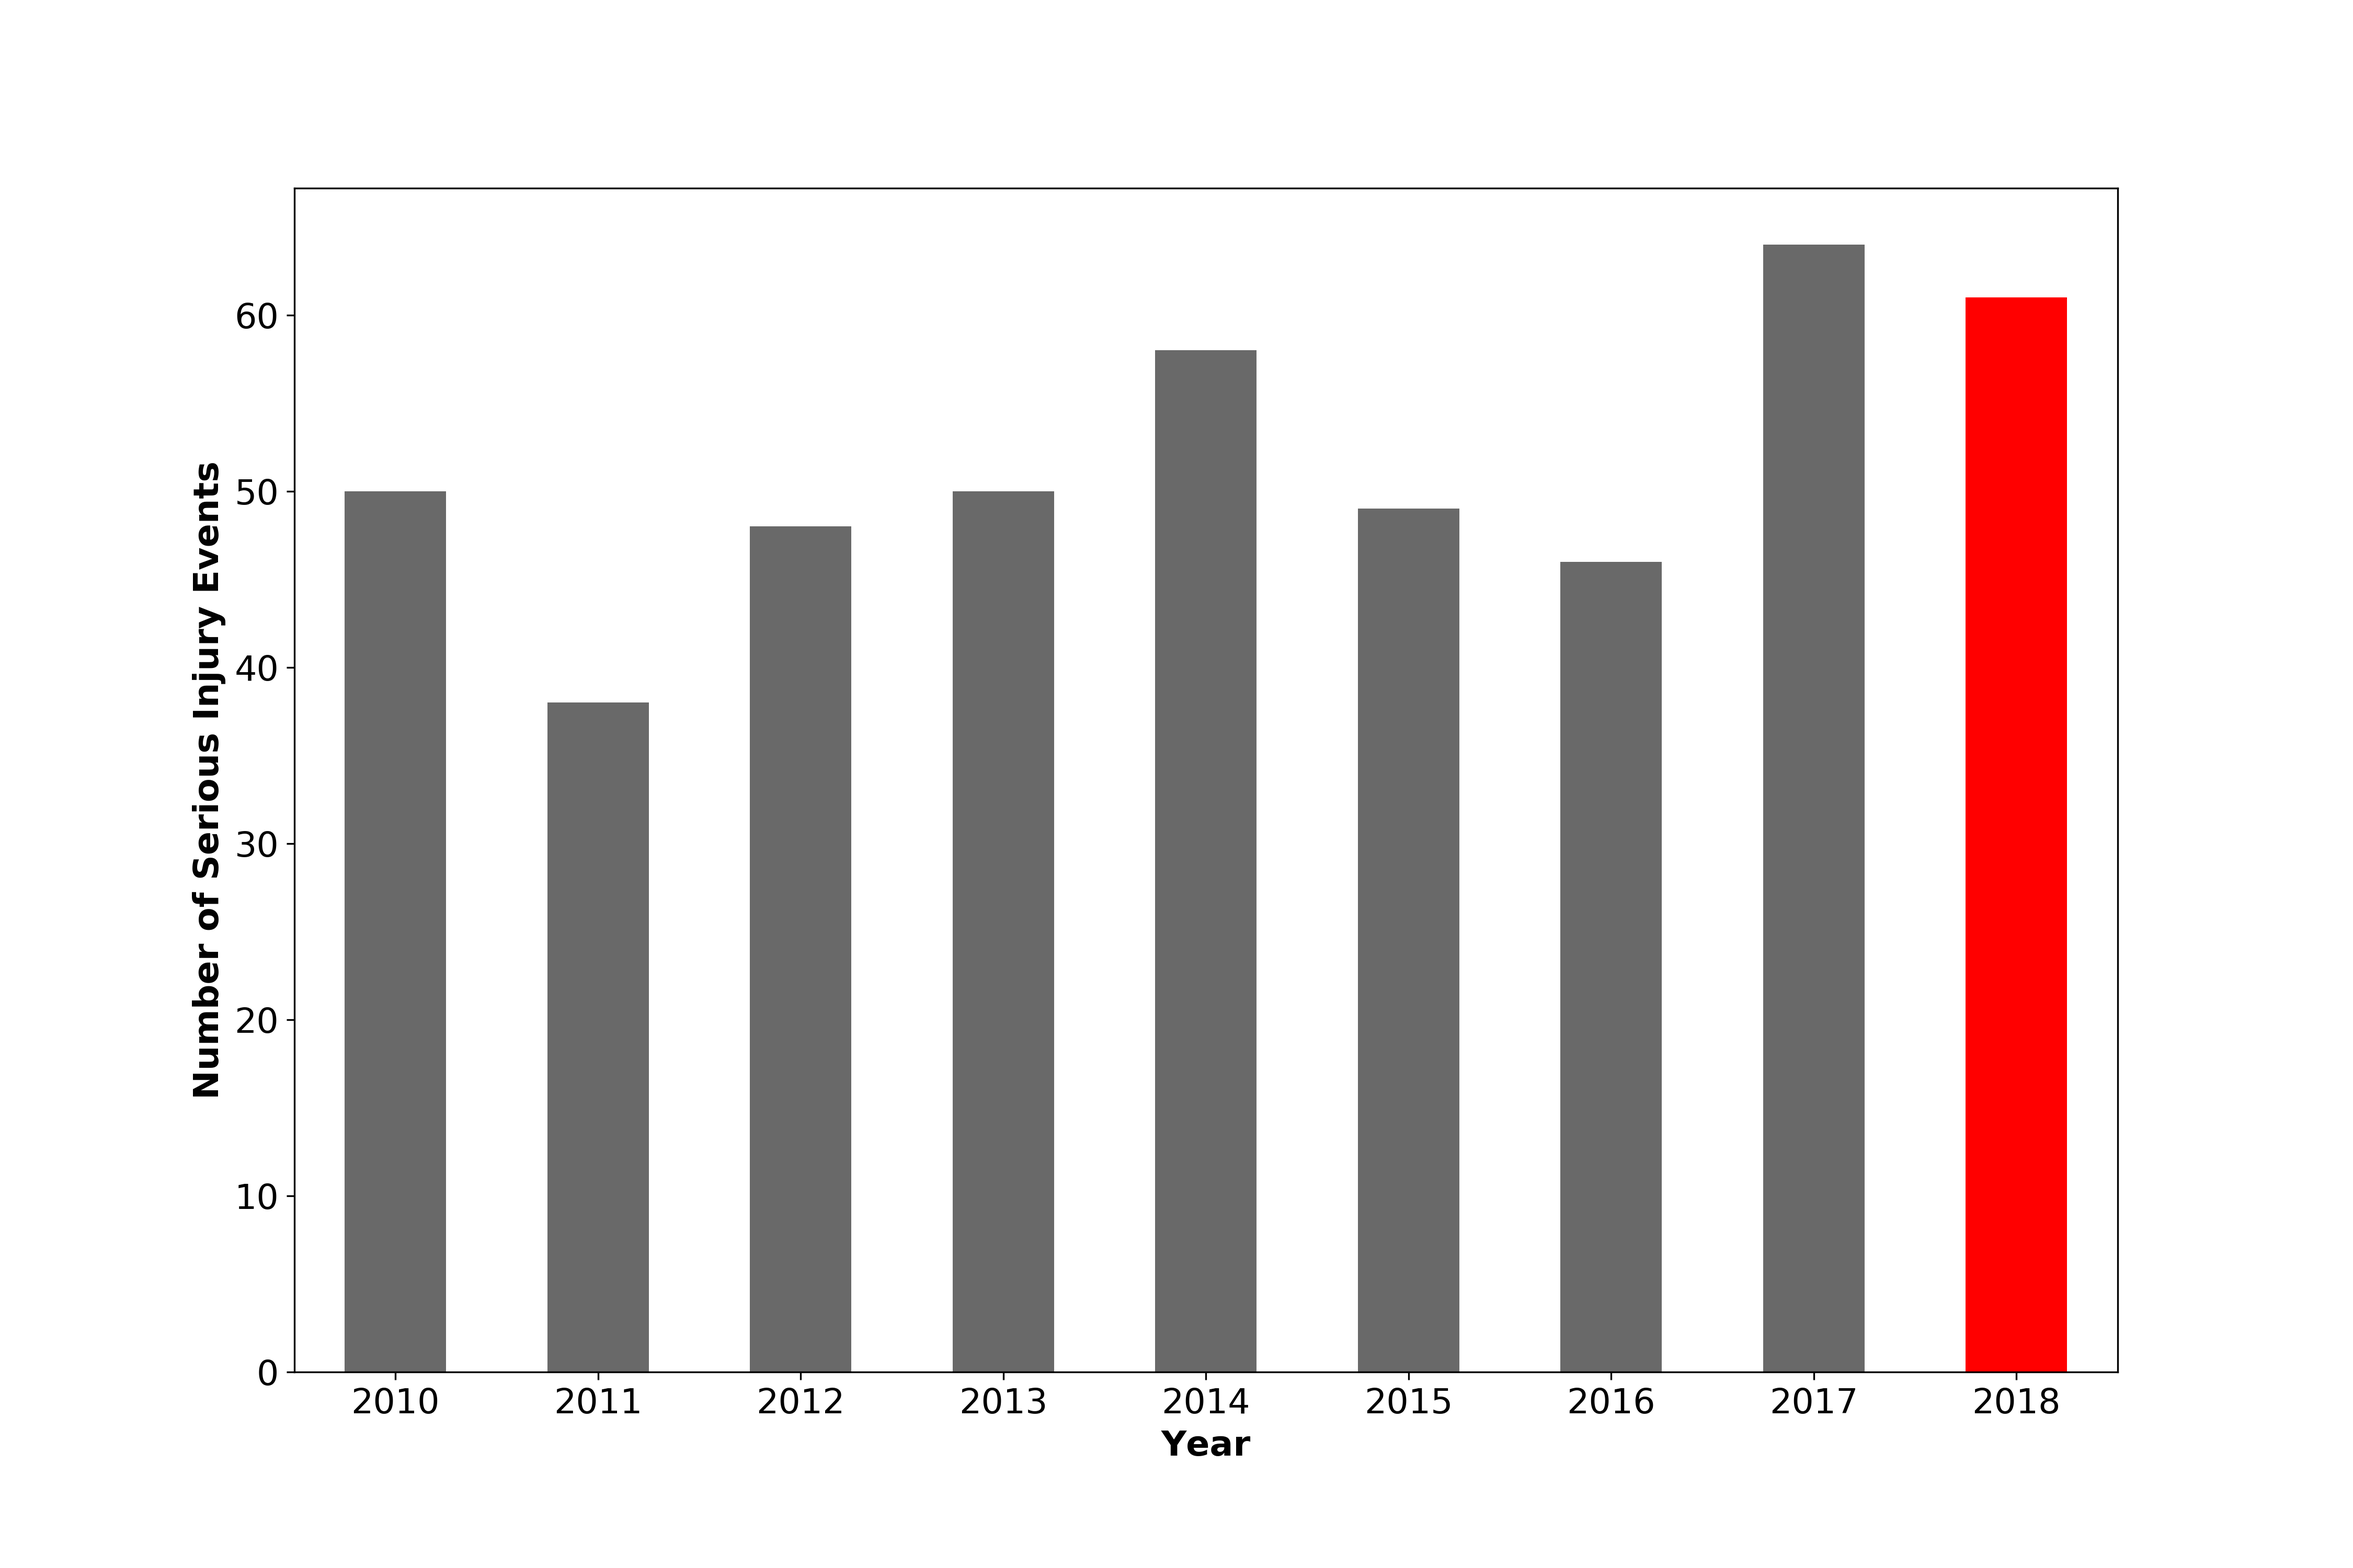
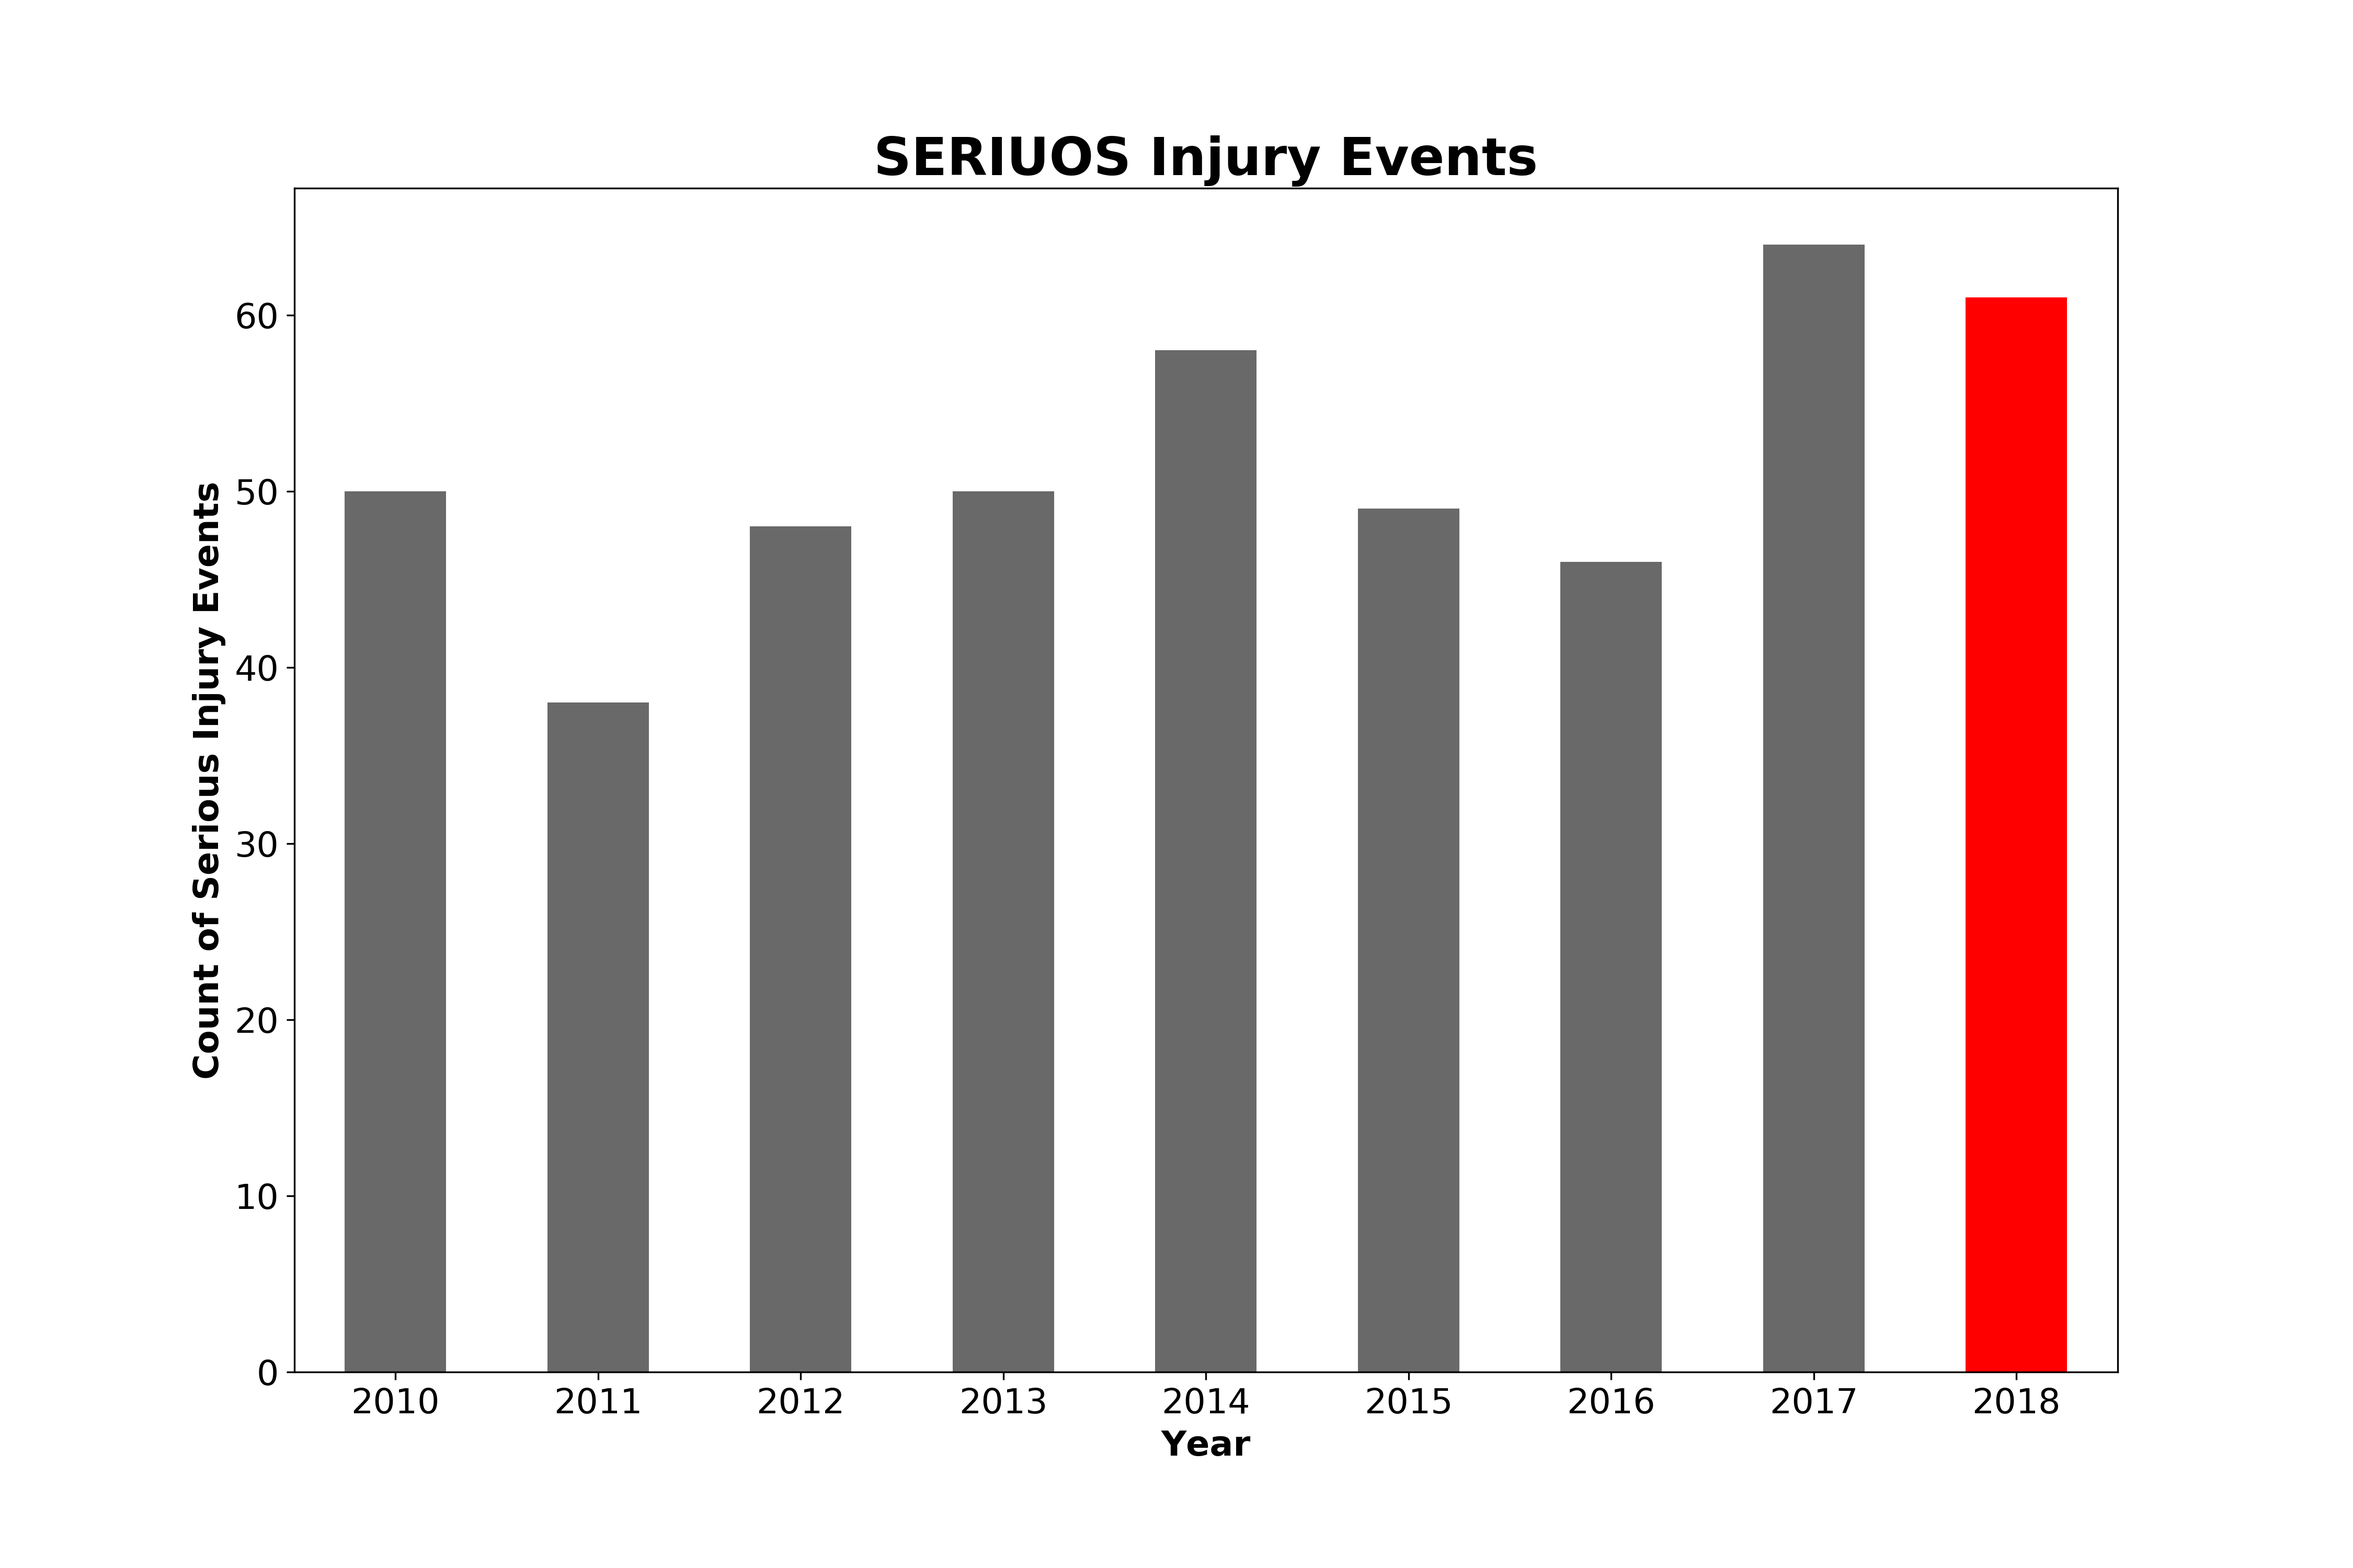
updated

Changed region(s): [[0.0622, 0.31, 0.0933, 0.713], [0.3733, 0.062, 0.6533, 0.124]]

diff --git a/src/d04_visualization/plot_bar_missed_games_all_injuries_c2018.py b/src/d04_visualization/plot_bar_missed_games_all_injuries_c2018.py
@@ -1,15 +1,13 @@
 # -*- coding: utf-8 -*-
 """
-This script creates a bar chart of the injury events (or "transactions") each 
-season. Each bar represents a year.
-
-***This script plots serious injuries (>15 games missed)***
+This script creates a bar chart of games missed due to injuries. Each 
+bar represents a year.
 
 Required inputs:
     -mg_il_ps_merged_df.p
     
 Outputs:
-    - bar chart
+    -stacked bar chart
     
 @author: evanl
 """
@@ -17,15 +15,17 @@ Outputs:
 import pandas as pd
 import pickle
 
-
 pd.set_option('display.expand_frame_repr', False)
 
 #--------------------------User Inputs---------- ----------------------
 #file path for pickle of concatenated/merged mg,il, player stats dataframes
 injury_df_filepath =  '../../data/03_processed/mg_il_ps_merged_df.p'
 
-#save path for plot
-plot_savepath =  '../../results/01_plots/bar_plot_injury_serious_events.png'
+#save path for plot with a differnet color for each column
+#plot_savepath =  '../../results/01_plots/bar_missed_games_all_injuries.png'
+
+#save path for plot with a differnet color for 2018
+plot_savepath =  '../../results/01_plots/bar_missed_games_all_injuries_c2018.png'
 
 #-------------------------Load Files------------------------------------------
 #load player injury event dataframe
@@ -44,13 +44,14 @@ injury_df = injury_df[injury_df['MPPG'] > 10.0]
 #Exclude those 'injuries' which are not relevant (healthy scratches, rest, sick, n/a, other)
 injury_df = injury_df[~ injury_df['category'].isin(['healthy inactive','rest','sick','other','n/a'])]
 
-#Only look at serious injuries
-injury_df = injury_df[injury_df['Tot_games_missed'] > 15.0]
 
 #------------------------Make plots-------------------------------------------
 
 #group by year, category, and sum total missed games. Unstack to plot
-data = injury_df.groupby(['Year']).size()
+data = injury_df.groupby(['Year'])['Tot_games_missed'].sum()
+
+#create plot
+#ax = data.plot(kind='bar', stacked=True, figsize=(15, 10))
 
 #create plot
 ax = data.plot(kind='bar', stacked=True, figsize=(15, 10), color = ['dimgray', 'dimgray', 'dimgray', 'dimgray', 'dimgray', 'dimgray', 'dimgray', 'dimgray', 'red'])
@@ -59,7 +60,7 @@ ax = data.plot(kind='bar', stacked=True, figsize=(15, 10), color = ['dimgray', '
 ax.set_xlabel("Year", fontsize = 16, weight='bold')
 
 # Set the y-axis label
-ax.set_ylabel("Count of Serious Injury Events", fontsize =16,weight='bold')
+ax.set_ylabel("Count of Games Missed Due to Injury", fontsize =16,weight='bold')
 
 # Set the x-axis tick labels
 ax.set_xticklabels(data.index,rotation = 0, fontsize = 16)
@@ -72,7 +73,7 @@ for tick in ax.get_yticks():
 ax.set_yticklabels(y_tick_labels, fontsize = 16)
 
 #plot title
-ax.set_title('SERIUOS Injury Events', fontsize = 24, weight= 'bold')
+ax.set_title('Games Missed Due to Injury (All Injuries)', fontsize = 24, weight= 'bold')
 
 ## Set legend properties
 #ax.legend(list(data.columns), fontsize = 16)

diff --git a/src/d04_visualization/plot_bar_missed_games_all_injuries.py b/src/d04_visualization/plot_bar_missed_games_all_injuries.py
@@ -22,10 +22,8 @@ pd.set_option('display.expand_frame_repr', False)
 injury_df_filepath =  '../../data/03_processed/mg_il_ps_merged_df.p'
 
 #save path for plot with a differnet color for each column
-#plot_savepath =  '../../results/01_plots/bar_missed_games_all_injuries.png'
+plot_savepath =  '../../results/01_plots/bar_missed_games_all_injuries.png'
 
-#save path for plot with a differnet color for 2018
-#plot_savepath =  '../../results/01_plots/bar_missed_games_all_injuries_c2018.png'
 
 #-------------------------Load Files------------------------------------------
 #load player injury event dataframe
@@ -54,13 +52,13 @@ data = injury_df.groupby(['Year'])['Tot_games_missed'].sum()
 #ax = data.plot(kind='bar', stacked=True, figsize=(15, 10))
 
 #create plot
-ax = data.plot(kind='bar', stacked=True, figsize=(15, 10), color = ['dimgray', 'dimgray', 'dimgray', 'dimgray', 'dimgray', 'dimgray', 'dimgray', 'dimgray', 'red'])
+ax = data.plot(kind='bar', stacked=True, figsize=(15, 10), color = ['dimgray', 'dimgray', 'dimgray', 'dimgray', 'dimgray', 'dimgray', 'dimgray', 'dimgray', 'dimgray'])
 
 # Set the x-axis label
 ax.set_xlabel("Year", fontsize = 16, weight='bold')
 
 # Set the y-axis label
-ax.set_ylabel("Games Missed Due to Injury", fontsize =16,weight='bold')
+ax.set_ylabel("Count of Games Missed Due to Injury", fontsize =16,weight='bold')
 
 # Set the x-axis tick labels
 ax.set_xticklabels(data.index,rotation = 0, fontsize = 16)
@@ -73,7 +71,7 @@ for tick in ax.get_yticks():
 ax.set_yticklabels(y_tick_labels, fontsize = 16)
 
 #plot title
-ax.set_title('Injury Events', fontsize = 24, weight= 'bold')
+ax.set_title('Games Missed Due to Injury (All Injuries)', fontsize = 24, weight= 'bold')
 
 ## Set legend properties
 #ax.legend(list(data.columns), fontsize = 16)

diff --git a/src/d04_visualization/plot_bar_injury_all_events.py b/src/d04_visualization/plot_bar_injury_all_events.py
@@ -3,8 +3,6 @@
 This script creates a bar chart of the injury events (or "transactions") each 
 season. Each bar represents a year.
 
-***This script plots serious injuries (>15 games missed)***
-
 Required inputs:
     -mg_il_ps_merged_df.p
     
@@ -25,7 +23,7 @@ pd.set_option('display.expand_frame_repr', False)
 injury_df_filepath =  '../../data/03_processed/mg_il_ps_merged_df.p'
 
 #save path for plot
-plot_savepath =  '../../results/01_plots/bar_plot_injury_serious_events.png'
+plot_savepath =  '../../results/01_plots/bar_plot_all__events.png'
 
 #-------------------------Load Files------------------------------------------
 #load player injury event dataframe
@@ -72,7 +70,7 @@ for tick in ax.get_yticks():
 ax.set_yticklabels(y_tick_labels, fontsize = 16)
 
 #plot title
-ax.set_title('SERIUOS Injury Events', fontsize = 24, weight= 'bold')
+ax.set_title('SERIOUS Injury Events', fontsize = 24, weight= 'bold')
 
 ## Set legend properties
 #ax.legend(list(data.columns), fontsize = 16)

diff --git a/README.md b/README.md
@@ -1,13 +1,18 @@
-NBA-Injuries-Analysis
+# NBA-Injuries-Analysis
 
 This README provides an overview of the NBA-Injury-Analyses project contained within this repository. This project consists of web-scraping (from multiple sources), extensive data cleaning, data processing (merging datasets, feature engineering), and the creation of visualizations to generate useful insights. 
 
 ## Table of contents
 * [Motivation](#motivation)
 * [Objective](#objective)
-* [Data Sources](#data-sources)
+* [Methodology](#methodology)
+  * [Scraping](#scraping)
+  * [Cleaning](#cleaning)
+  * [Processing](#processing)
 * [What Makes This NBA Injury Analysis Unique](#what-makes-this-nba-injury-analysis-unique)
-* [Results](#results)
+* [Analysis](#analysis)
+  * [Analysis of Injury Trends](#analysis-of-injury-trends)
+  * [Analysis of Other Factors](#analysis-of-other-factors)
 * [Conclusion](#conclusion)
 * [Repositiory Structure](#repository_structure)
 ## Motivation	
